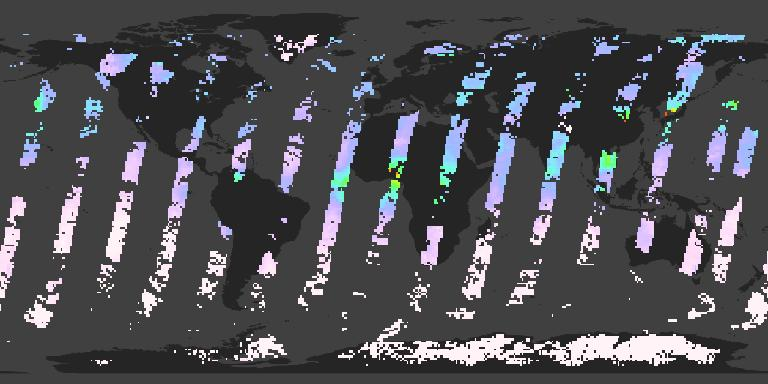
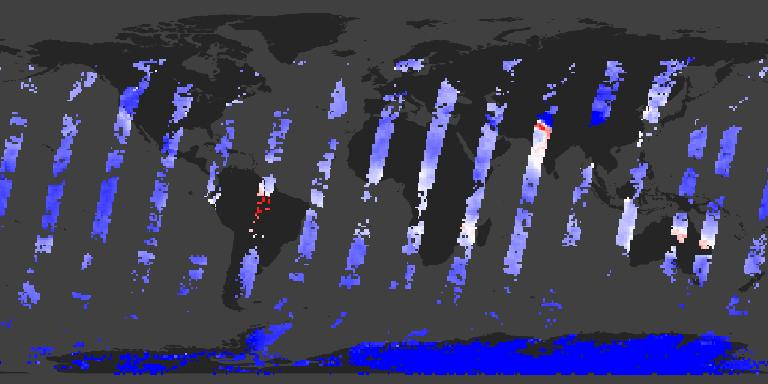
WV-3306: Update L3 MOPITT layers to v9 (#5960)
* update to v9

* Update preview images to new colormap

diff --git a/config/default/common/config/metadata/layers/mopitt/MOPITT_CO_Monthly_Total_Column_Night.md b/config/default/common/config/metadata/layers/mopitt/MOPITT_CO_Monthly_Total_Column_Night.md
@@ -2,4 +2,4 @@ The MOPITT Carbon Monoxide (CO) (Monthly, Night, Total Column) layer shows the a
 
 The MOPITT Carbon Monoxide (Monthly, Night, Total Column) layer is available from the Measurements of Pollution in the Troposphere (MOPITT) instrument on the Terra satellite. The total column is calculated by integrating the retrieved mixing ratio profiles from the 9 standard MOPITT pressure levels, 900, 800, 700, 600, 500, 400, 300, 200, and 100 hPa and at the surface and are not retrieved independently. The sensor resolution is 22 km at nadir, imagery resolution is 2 km, and the temporal resolution is monthly.
 
-References: MOP03JM_L3.008 [doi:10.5067/TERRA/MOPITT/MOP03JM_L3.008](https://doi.org/10.5067/TERRA/MOPITT/MOP03JM_L3.008)
+References: MOP03JM.009 [doi:10.5067/TERRA/MOPITT/MOP03JM.009](https://doi.org/10.5067/TERRA/MOPITT/MOP03JM.009)

diff --git a/config/default/common/config/metadata/layers/mopitt/MOPITT_CO_Monthly_Total_Column_Day.md b/config/default/common/config/metadata/layers/mopitt/MOPITT_CO_Monthly_Total_Column_Day.md
@@ -2,4 +2,4 @@ The MOPITT Carbon Monoxide (CO) (Monthly, Day, Total Column) layer shows the amo
 
 The MOPITT Carbon Monoxide (Monthly, Day, Total Column)layer is available from the Measurements of Pollution in the Troposphere (MOPITT) instrument on the Terra satellite. The total column is calculated by integrating the retrieved mixing ratio profiles from the 9 standard MOPITT pressure levels, 900, 800, 700, 600, 500, 400, 300, 200, and 100 hPa and at the surface and are not retrieved independently. The sensor resolution is 22 km at nadir, imagery resolution is 2 km, and the temporal resolution is monthly.
 
-References: MOP03JM_L3.008 [doi:10.5067/TERRA/MOPITT/MOP03JM_L3.008](https://doi.org/10.5067/TERRA/MOPITT/MOP03JM_L3.008)
+References: MOP03JM.009 [doi:10.5067/TERRA/MOPITT/MOP03JM.009](https://doi.org/10.5067/TERRA/MOPITT/MOP03JM.009)

diff --git a/config/default/common/config/metadata/layers/mopitt/MOPITT_CO_Daily_Total_Column_Night.md b/config/default/common/config/metadata/layers/mopitt/MOPITT_CO_Daily_Total_Column_Night.md
@@ -2,4 +2,4 @@ The MOPITT Carbon Monoxide (CO) (Daily, Night, Total Column) layer shows the amo
 
 The MOPITT Carbon Monoxide (Daily, Night, Total Column) layer is available from the Measurements of Pollution in the Troposphere (MOPITT) instrument on the Terra satellite. The total column is calculated by integrating the retrieved mixing ratio profiles from the 9 standard MOPITT pressure levels, 900, 800, 700, 600, 500, 400, 300, 200, and 100 hPa and at the surface and are not retrieved independently. The sensor resolution is 22 km at nadir, imagery resolution is 2 km, and the temporal resolution is daily.
 
-References: MOP03J_L3.008 [doi:10.5067/TERRA/MOPITT/MOP03J_L3.008](https://doi.org/10.5067/TERRA/MOPITT/MOP03J_L3.008)
+References: MOP03J.009 [doi:10.5067/TERRA/MOPITT/MOP03J.009](https://doi.org/10.5067/TERRA/MOPITT/MOP03J.009)

diff --git a/config/default/common/config/metadata/layers/mopitt/MOPITT_CO_Daily_Total_Column_Day.md b/config/default/common/config/metadata/layers/mopitt/MOPITT_CO_Daily_Total_Column_Day.md
@@ -2,4 +2,4 @@ The MOPITT Carbon Monoxide (CO) (Daily, Day, Total Column) layer shows the amoun
 
 The MOPITT Carbon Monoxide (Daily, Day, Total Column) layer is available from the Measurements of Pollution in the Troposphere (MOPITT) instrument on the Terra satellite. The total column is calculated by integrating the retrieved mixing ratio profiles from the 9 standard MOPITT pressure levels, 900, 800, 700, 600, 500, 400, 300, 200, and 100 hPa and at the surface and are not retrieved independently. The sensor resolution is 22 km at nadir, imagery resolution is 2 km, and the temporal resolution is daily.
 
-References: MOP03J_L3.008 [doi:10.5067/TERRA/MOPITT/MOP03J_L3.008](https://doi.org/10.5067/TERRA/MOPITT/MOP03J_L3.008)
+References: MOP03J.009 [doi:10.5067/TERRA/MOPITT/MOP03J.009](https://doi.org/10.5067/TERRA/MOPITT/MOP03J.009)

diff --git a/config/default/common/config/metadata/layers/mopitt/MOPITT_CO_Monthly_Surface_Mixing_Ratio_Night.md b/config/default/common/config/metadata/layers/mopitt/MOPITT_CO_Monthly_Surface_Mixing_Ratio_Night.md
@@ -2,4 +2,4 @@ The MOPITT Carbon Monoxide (CO) (Monthly, Night, Surface Mixing Ratio) layer sho
 
 The MOPITT Carbon Monoxide (Monthly, Night, Surface Mixing Ratio) layer is available from the Measurements of Pollution in the Troposphere (MOPITT) instrument on the Terra satellite. The sensor resolution is 22 km at nadir, imagery resolution is 2 km, and the temporal resolution is monthly.
 
-References: MOP03JM_L3.008 [doi:10.5067/TERRA/MOPITT/MOP03JM_L3.008](https://doi.org/10.5067/TERRA/MOPITT/MOP03JM_L3.008)
+References: MOP03JM.009 [doi:10.5067/TERRA/MOPITT/MOP03JM.009](https://doi.org/10.5067/TERRA/MOPITT/MOP03JM.009)

diff --git a/config/default/common/config/metadata/layers/mopitt/MOPITT_CO_Monthly_Surface_Mixing_Ratio_Day.md b/config/default/common/config/metadata/layers/mopitt/MOPITT_CO_Monthly_Surface_Mixing_Ratio_Day.md
@@ -2,4 +2,4 @@ The MOPITT Carbon Monoxide (CO) (Monthly, Day, Surface Mixing Ratio) layer shows
 
 The MOPITT Carbon Monoxide (Monthly, Day, Surface Mixing Ratio) layer is available from the Measurements of Pollution in the Troposphere (MOPITT) instrument on the Terra satellite. The sensor resolution is 22 km at nadir, imagery resolution is 2 km, and the temporal resolution is monthly.
 
-References: MOP03JM_L3.008 [doi:10.5067/TERRA/MOPITT/MOP03JM_L3.008](https://doi.org/10.5067/TERRA/MOPITT/MOP03JM_L3.008)
+References: MOP03JM.009 [doi:10.5067/TERRA/MOPITT/MOP03JM.009](https://doi.org/10.5067/TERRA/MOPITT/MOP03JM.009)

diff --git a/config/default/common/config/metadata/layers/mopitt/MOPITT_CO_Daily_Surface_Mixing_Ratio_Night.md b/config/default/common/config/metadata/layers/mopitt/MOPITT_CO_Daily_Surface_Mixing_Ratio_Night.md
@@ -2,4 +2,4 @@ The MOPITT Carbon Monoxide (CO) (Daily, Night, Surface Mixing Ratio) layer shows
 
 The MOPITT Carbon Monoxide (Daily, Night, Surface Mixing Ratio) layer is available from the Measurements of Pollution in the Troposphere (MOPITT) instrument on the Terra satellite. The sensor resolution is 22 km at nadir, imagery resolution is 2 km, and the temporal resolution is daily.
 
-References: MOP03J_L3.008 [doi:10.5067/TERRA/MOPITT/MOP03J_L3.008](https://doi.org/10.5067/TERRA/MOPITT/MOP03J_L3.008)
+References: MOP03J.009 [doi:10.5067/TERRA/MOPITT/MOP03J.009](https://doi.org/10.5067/TERRA/MOPITT/MOP03J.009)

diff --git a/config/default/common/config/metadata/layers/mopitt/MOPITT_CO_Daily_Surface_Mixing_Ratio_Day.md b/config/default/common/config/metadata/layers/mopitt/MOPITT_CO_Daily_Surface_Mixing_Ratio_Day.md
@@ -2,4 +2,4 @@ The MOPITT Carbon Monoxide (CO) (Daily, Day, Surface Mixing Ratio) layer shows t
 
 The MOPITT Carbon Monoxide (Daily, Day, Surface Mixing Ratio) layer is available from the Measurements of Pollution in the Troposphere (MOPITT) instrument on the Terra satellite. The sensor resolution is 22 km at nadir, imagery resolution is 2 km, and the temporal resolution is daily.
 
-References: MOP03J_L3.008 [doi:10.5067/TERRA/MOPITT/MOP03J_L3.008](https://doi.org/10.5067/TERRA/MOPITT/MOP03J_L3.008)
+References: MOP03J.009 [doi:10.5067/TERRA/MOPITT/MOP03J.009](https://doi.org/10.5067/TERRA/MOPITT/MOP03J.009)
